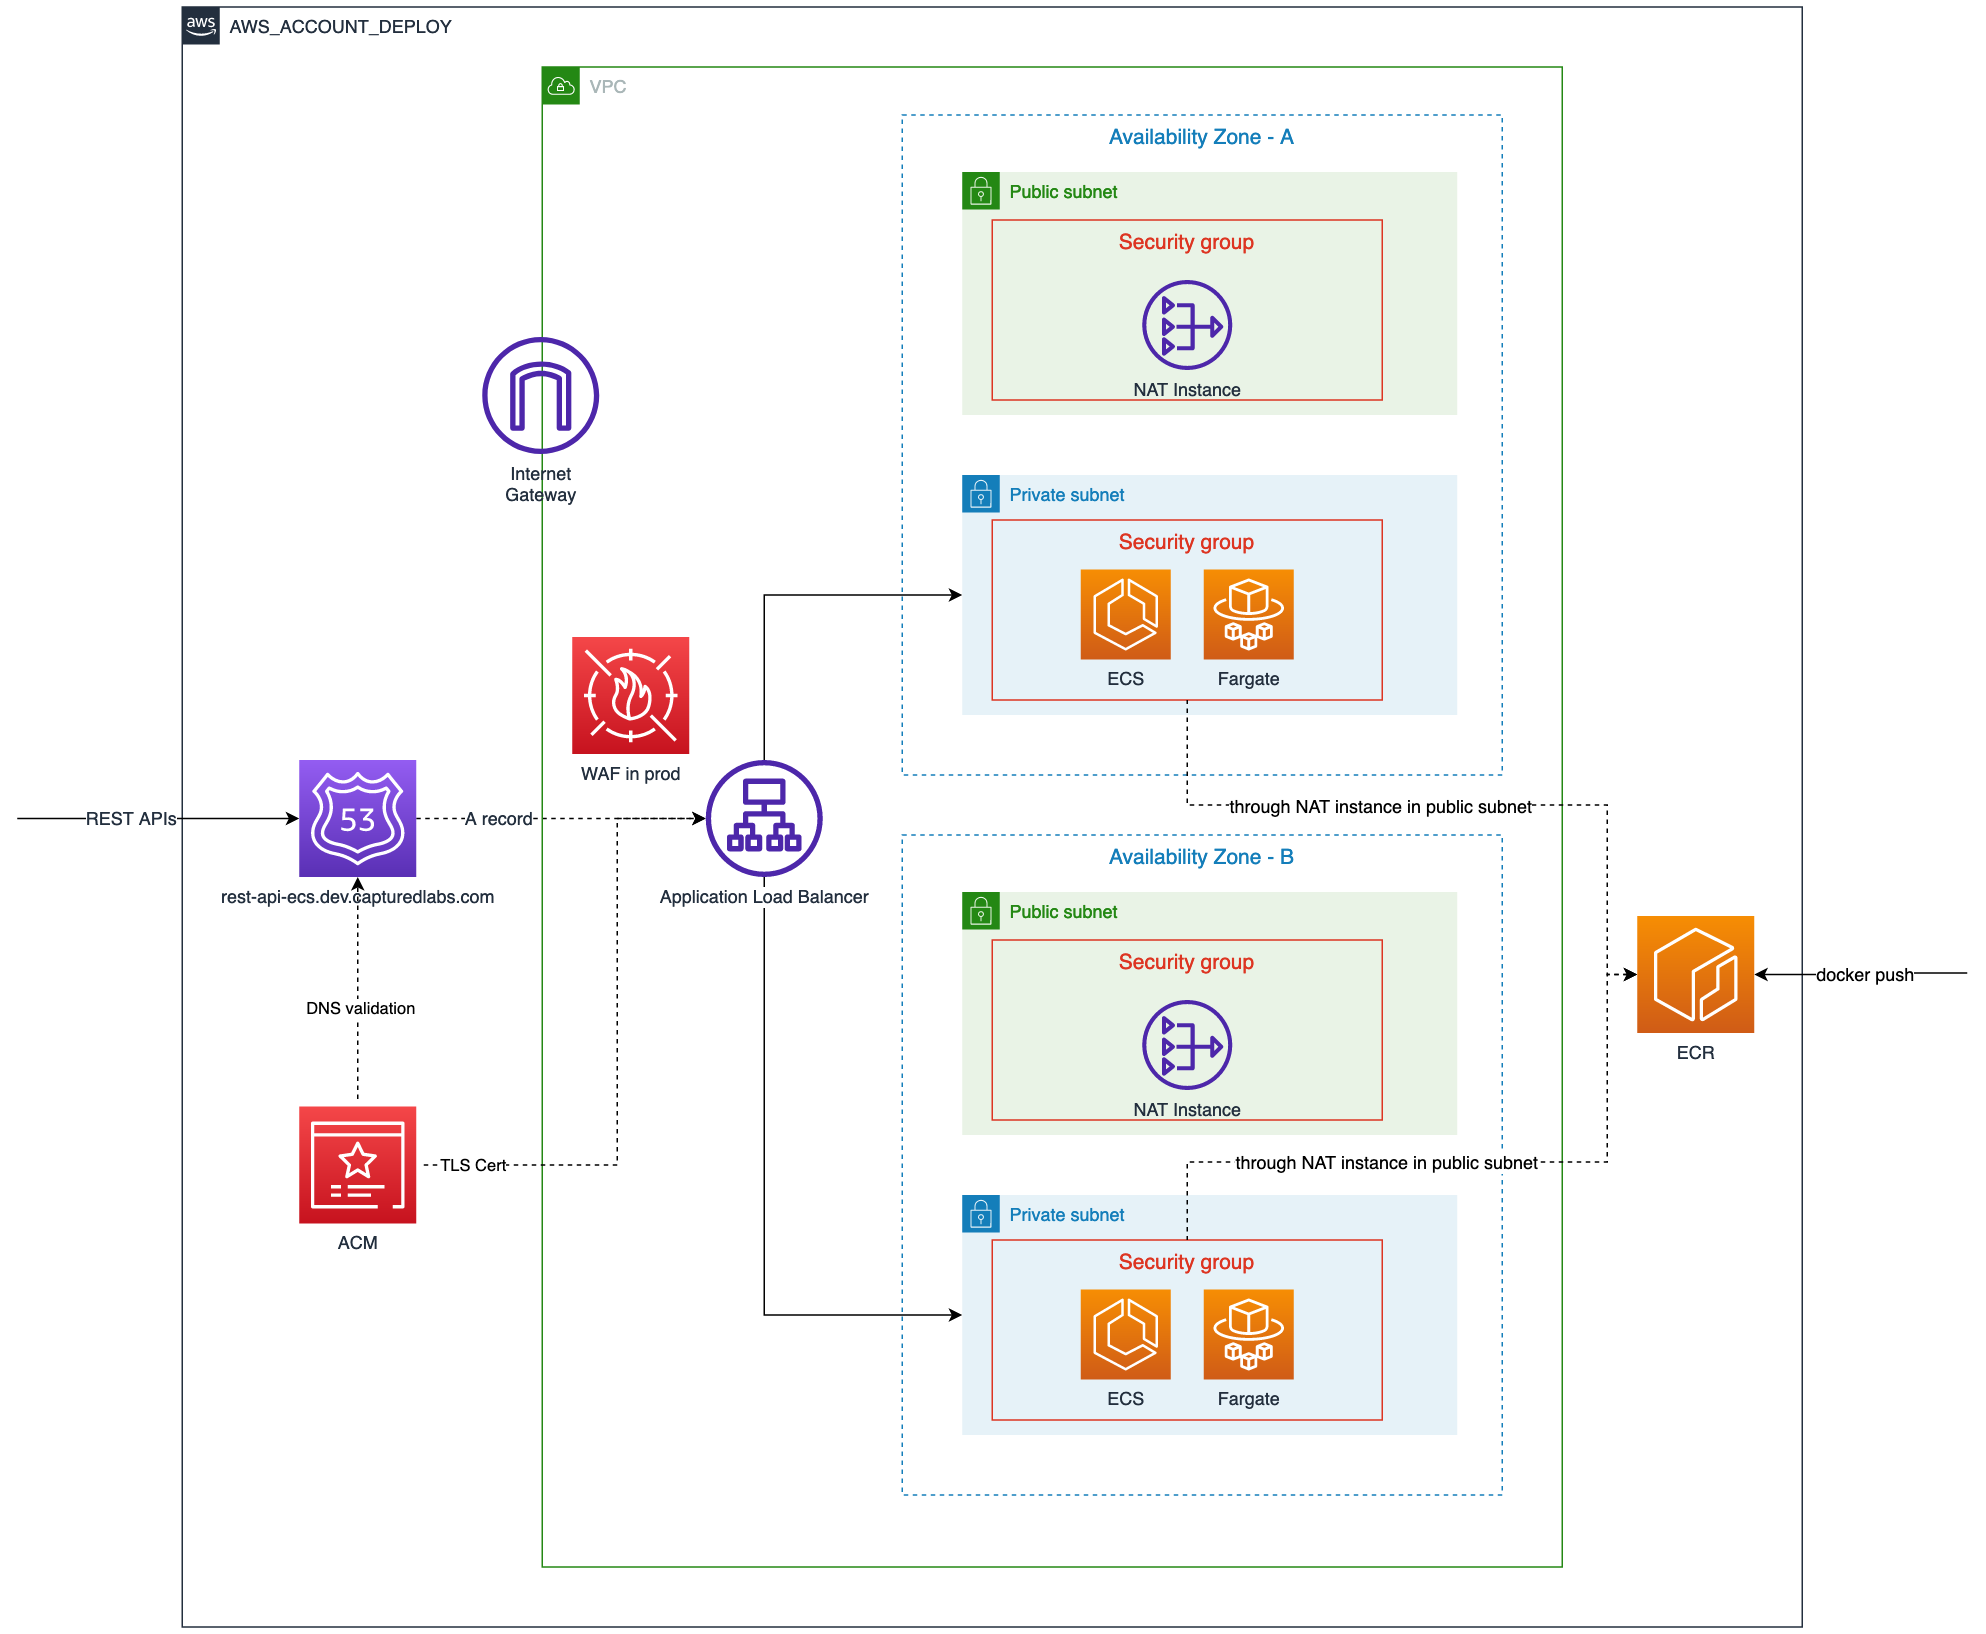
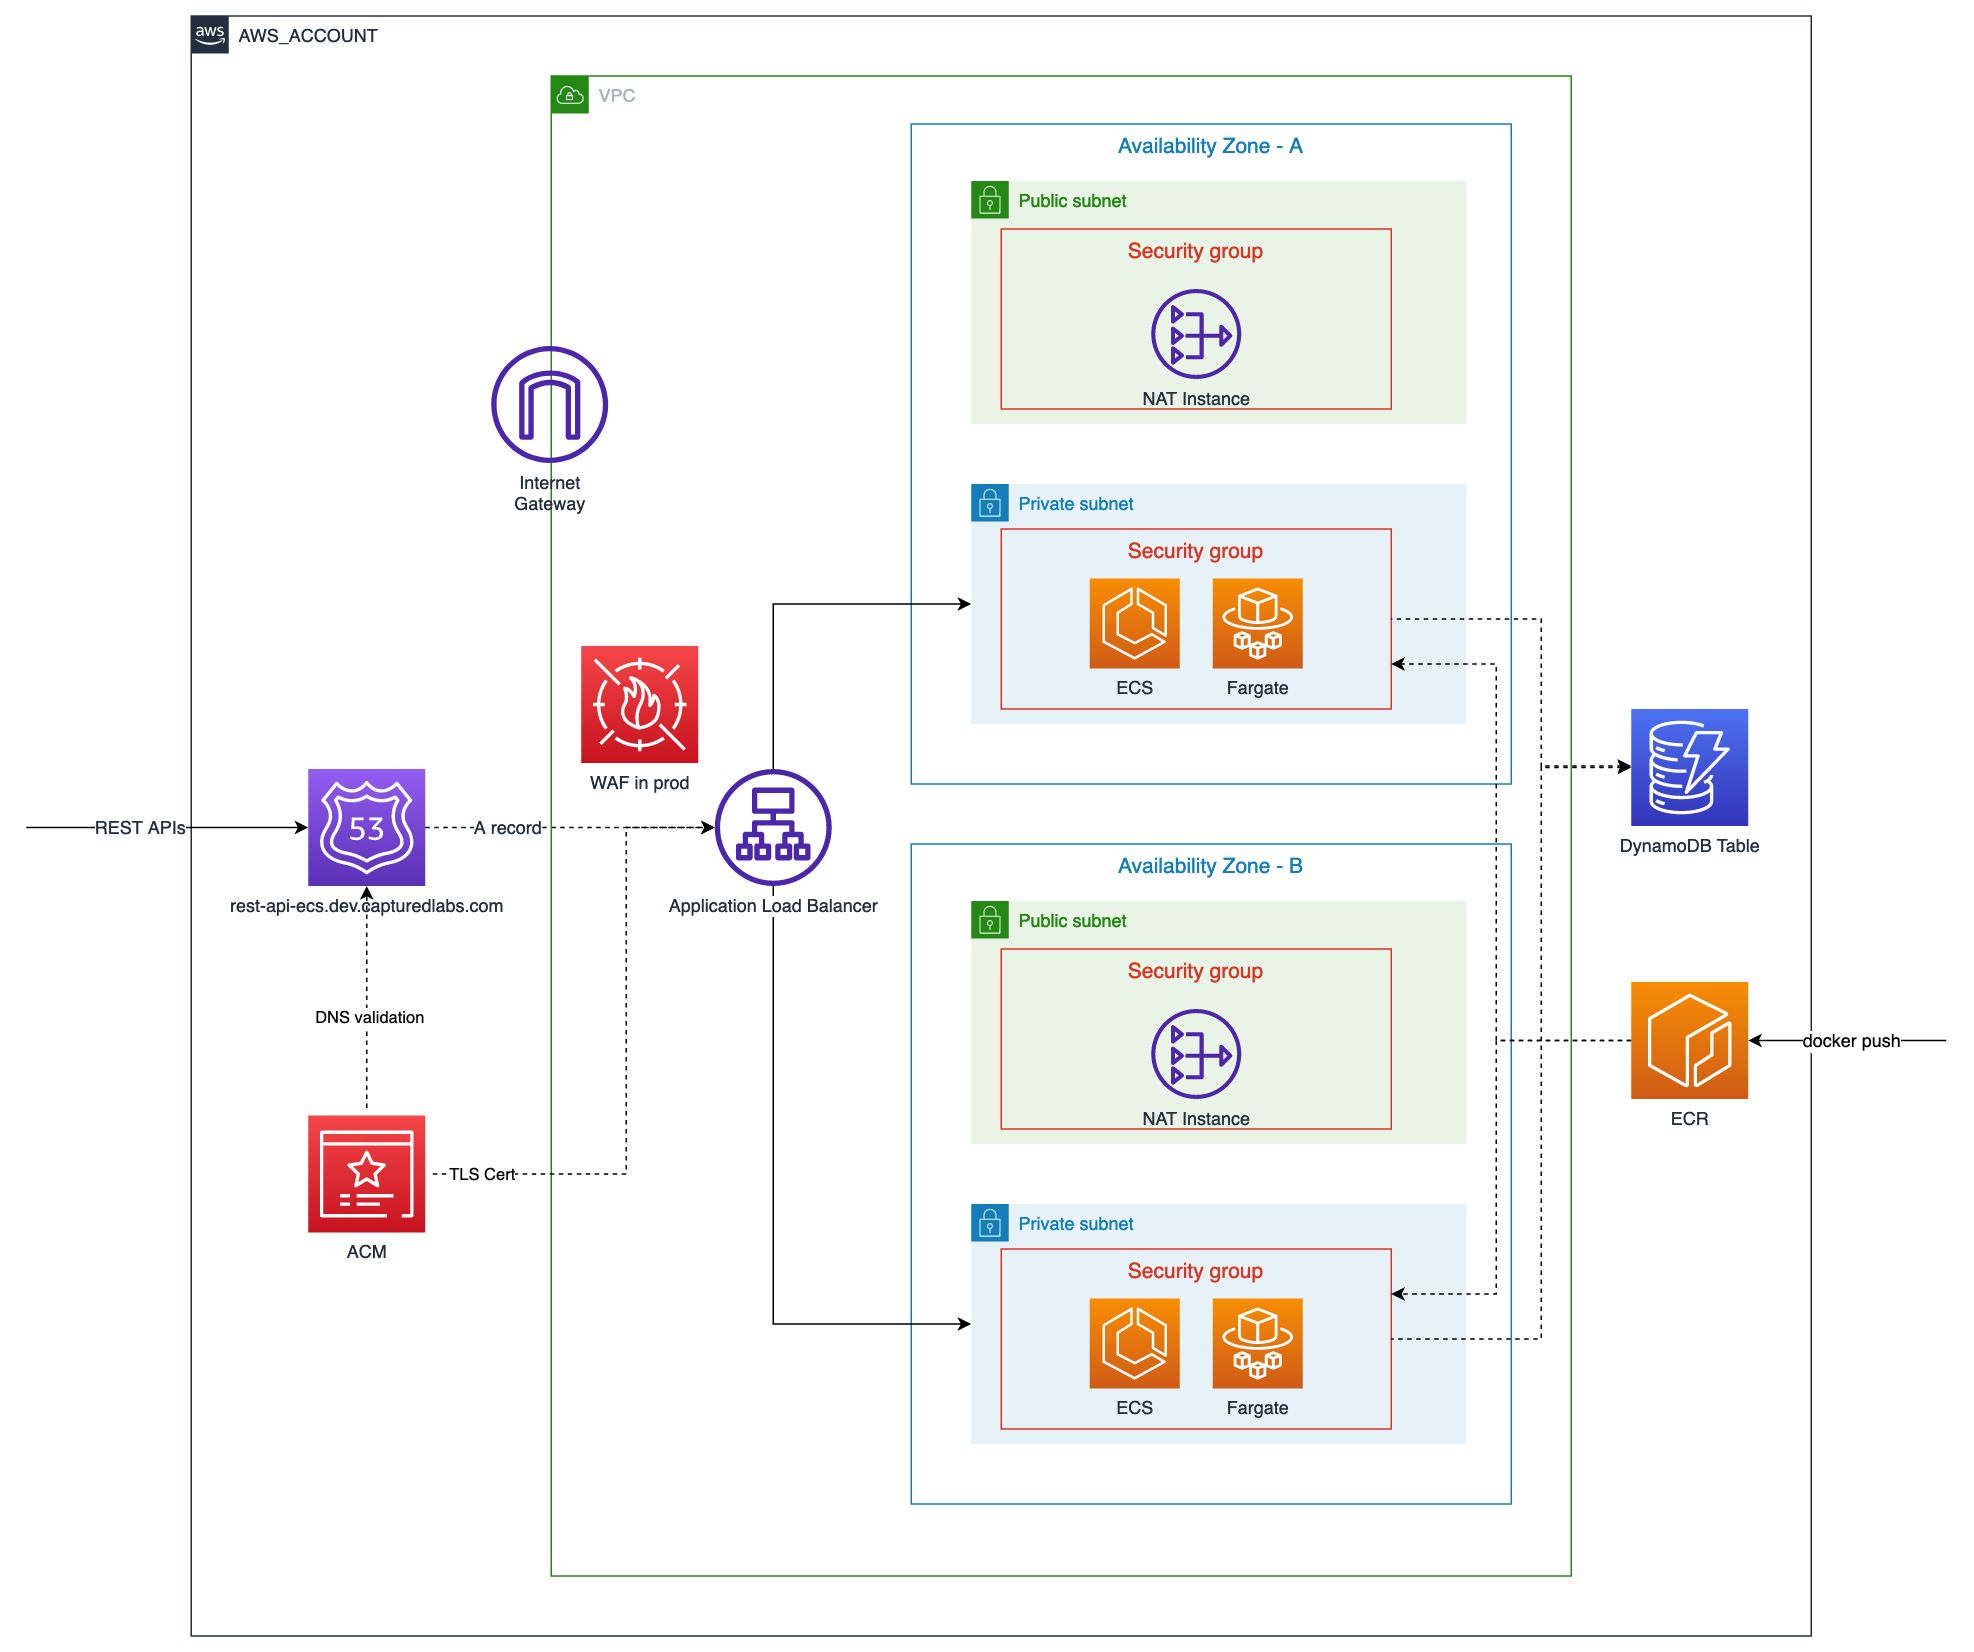
docs(rest-api-ecs): enhance documentation and diagram

diff --git a/packages/rest-api-ecs/README.md b/packages/rest-api-ecs/README.md
@@ -13,6 +13,8 @@
 
 ![](./architecture.png)
 
+diagram raw file (draw.io format): [https://drive.google.com/file/d/1mlh_tGtY4NF3XTauX2NC_HOkPyb775gI/view?usp=sharing](https://drive.google.com/file/d/1mlh_tGtY4NF3XTauX2NC_HOkPyb775gI/view?usp=sharing)
+
 ## Local Development
 
 ```bash
@@ -56,19 +58,29 @@ curl http://localhost:3000
 > I'm hosting it in my personal AWS account, be merciful 🙈
 
 ```bash
-# test deployed REST API GET /
-curl -i \
--X GET \
+# GET / - health check
+curl -X GET \
 https://rest-api-ecs.dev.capturedlabs.com
+# expected output:
+# {"message":"server is up 🚀"}
 
-# expected output
-HTTP/2 200
-date: Wed, 27 Jul 2022 21:29:50 GMT
-content-type: application/json; charset=utf-8
-content-length: 31
-x-powered-by: Express
-access-control-allow-origin: *
-etag: W/"1f-grMtbL5VYulNqAmFyqX/2Lp3EyY"
+# POST /users - create a user
+curl -X POST \
+-H "Content-Type: application/json" \
+-d '{"username":"marten", "fullName": "Marten Trendle", "email": "mtrendle2@umich.edu"}' \
+https://rest-api-ecs.dev.capturedlabs.com/users
 
-{"message":"server is up 🚀"}
+# PATCH /users - update a user
+curl -X PATCH \
+-H "Content-Type: application/json" \
+-d '{"address":"4 La Follette Pass"}' \
+https://rest-api-ecs.dev.capturedlabs.com/users/marten
+
+# PATCH /users - get a user
+curl -X GET \
+https://rest-api-ecs.dev.capturedlabs.com/users/marten
+
+# expected output:
+# {"username":"marten","email":"mtrendle2@umich.edu","fullName":"Marten Trendle","address":"4 La Follette Pass"}
+
 ```
